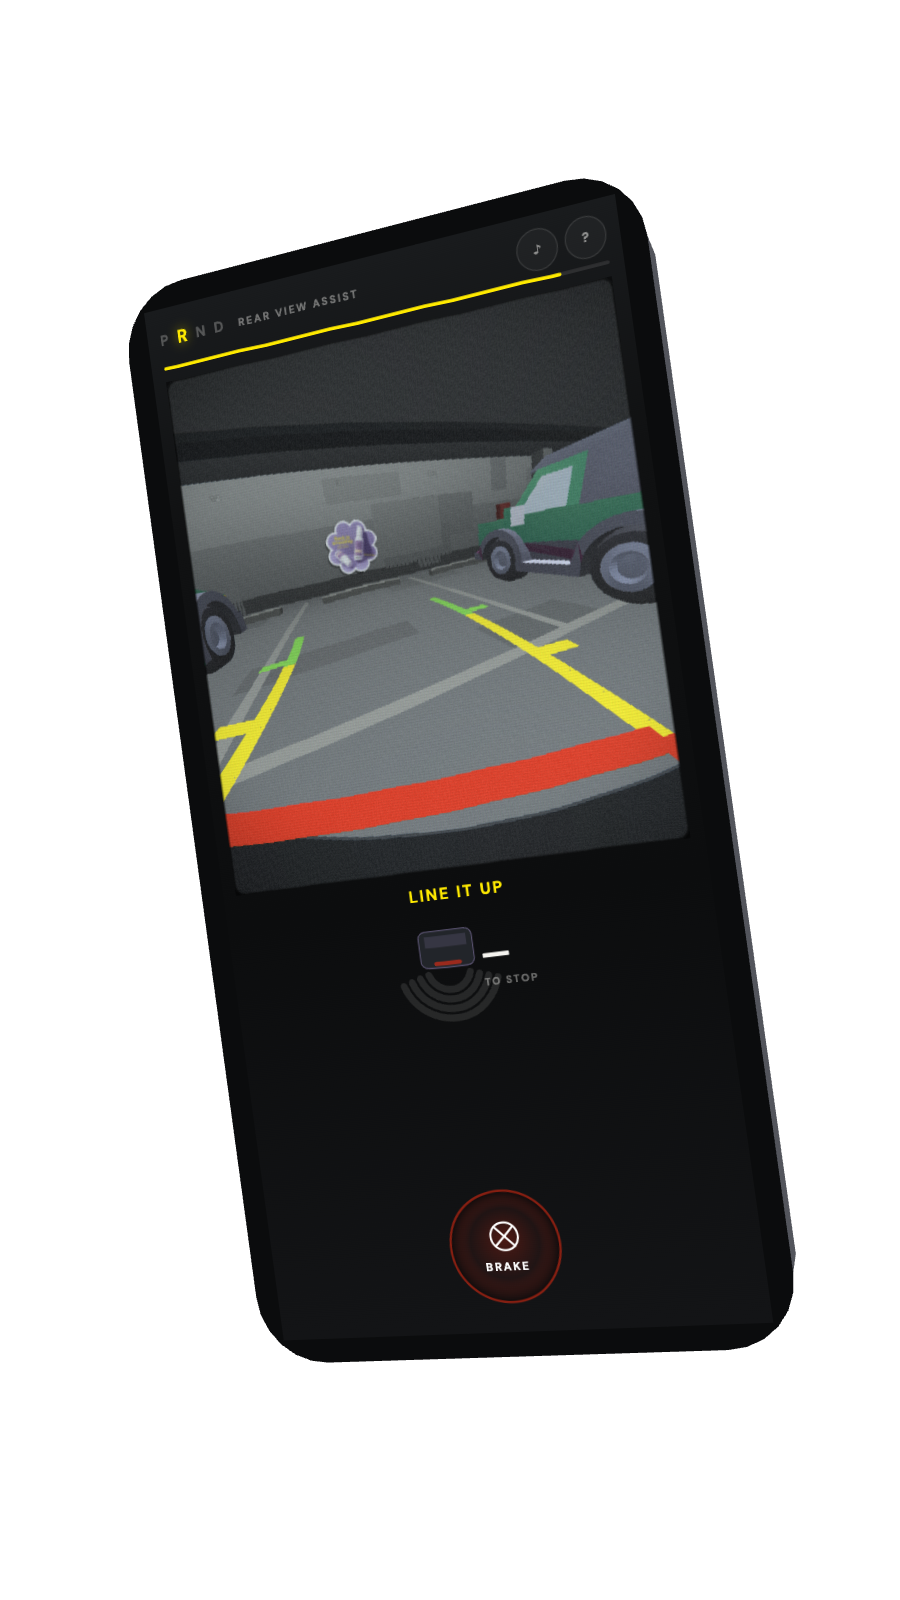
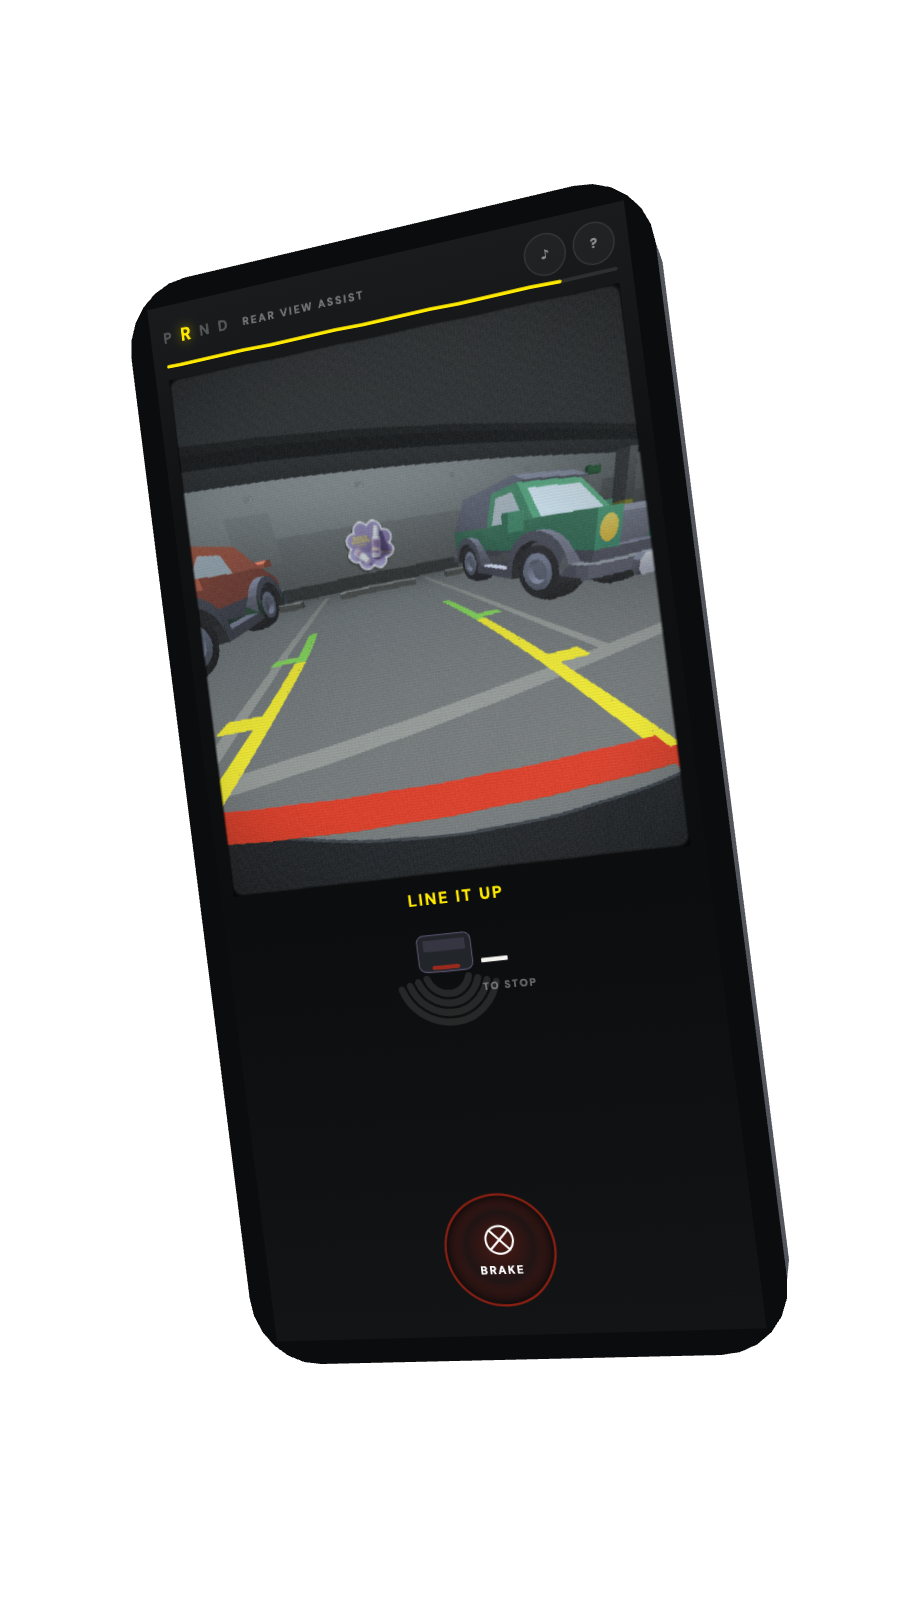
Park the neighbours where the simulation thinks they are
A pose is the rear axle everywhere in the simulation, but a baked model is
centred on its own bounding box, and the renderer was putting the centre at the
axle. Every parked car therefore sat about a metre out of place — over the wheel
stop and into the wall one way round, out into the aisle the other, depending on
which way it was parked. The model is now shifted forward by the difference.

Bays are 4.9 m deep so the longest model in the kit fits without overhanging the
mouth. Verified across 1124 parked cars in 200 car parks: none mounts a stop,
none pokes into the aisle.

diff --git a/dist/embed.html b/dist/embed.html
@@ -895,12 +895,12 @@ window.PM_MODELS = {
     coupe: { len: 3.09, wid: 1.58 },
   };
   const GEO = {
-    bayW: 2.62, bayD: 4.60,
+    bayW: 2.62, bayD: 4.90,
     wallZ: 0,            // poster wall
     kerbZ: 0.22,         // wheel stop
     stopZ: 1.02,         // the wheel stop, and where a parked car comes to rest
-    laneZ0: 4.60,        // bay mouth
-    laneZ1: 11.0,        // far side of the lane
+    laneZ0: 4.90,        // bay mouth, deep enough for the longest model
+    laneZ1: 11.3,        // far side of the lane
     ceilY: 2.86,
     xMin: -13, xMax: 13,
     bayMin: -4, bayMax: 4,
@@ -3117,7 +3117,12 @@ window.PM_MODELS = {
       for (const car of L.cars) {
         const mdl = this.models[car.model] || this.models[this.modelNames[0]];
         if (!mdl) continue;
-        trs(mm, car.x, 0, car.z, car.heading, 1);   // the kit's nose is +z, same as ours
+        /* A pose is the rear axle everywhere in the simulation, but a baked
+           model is centred on its own bounding box. Shift it forward by the
+           difference or every parked car sits a metre out of its bay — over
+           the wheel stop one way round, into the aisle the other. */
+        const cf = (car.len || W.CAR.len) * 0.5 - W.CAR.rearOverhang;
+        trs(mm, car.x + Math.sin(car.heading) * cf, 0, car.z + Math.cos(car.heading) * cf, car.heading, 1);
         gl.uniformMatrix4fv(p.u.uM, false, mm);
         gl.uniform3f(p.u.uTint, car.paint.body[0] / 255, car.paint.body[1] / 255, car.paint.body[2] / 255);
         this.bindSolid(mdl);

diff --git a/index.html b/index.html
@@ -902,12 +902,12 @@ window.PM_MODELS = {
     coupe: { len: 3.09, wid: 1.58 },
   };
   const GEO = {
-    bayW: 2.62, bayD: 4.60,
+    bayW: 2.62, bayD: 4.90,
     wallZ: 0,            // poster wall
     kerbZ: 0.22,         // wheel stop
     stopZ: 1.02,         // the wheel stop, and where a parked car comes to rest
-    laneZ0: 4.60,        // bay mouth
-    laneZ1: 11.0,        // far side of the lane
+    laneZ0: 4.90,        // bay mouth, deep enough for the longest model
+    laneZ1: 11.3,        // far side of the lane
     ceilY: 2.86,
     xMin: -13, xMax: 13,
     bayMin: -4, bayMax: 4,
@@ -3124,7 +3124,12 @@ window.PM_MODELS = {
       for (const car of L.cars) {
         const mdl = this.models[car.model] || this.models[this.modelNames[0]];
         if (!mdl) continue;
-        trs(mm, car.x, 0, car.z, car.heading, 1);   // the kit's nose is +z, same as ours
+        /* A pose is the rear axle everywhere in the simulation, but a baked
+           model is centred on its own bounding box. Shift it forward by the
+           difference or every parked car sits a metre out of its bay — over
+           the wheel stop one way round, into the aisle the other. */
+        const cf = (car.len || W.CAR.len) * 0.5 - W.CAR.rearOverhang;
+        trs(mm, car.x + Math.sin(car.heading) * cf, 0, car.z + Math.cos(car.heading) * cf, car.heading, 1);
         gl.uniformMatrix4fv(p.u.uM, false, mm);
         gl.uniform3f(p.u.uTint, car.paint.body[0] / 255, car.paint.body[1] / 255, car.paint.body[2] / 255);
         this.bindSolid(mdl);

diff --git a/src/gl.js b/src/gl.js
@@ -471,7 +471,12 @@
       for (const car of L.cars) {
         const mdl = this.models[car.model] || this.models[this.modelNames[0]];
         if (!mdl) continue;
-        trs(mm, car.x, 0, car.z, car.heading, 1);   // the kit's nose is +z, same as ours
+        /* A pose is the rear axle everywhere in the simulation, but a baked
+           model is centred on its own bounding box. Shift it forward by the
+           difference or every parked car sits a metre out of its bay — over
+           the wheel stop one way round, into the aisle the other. */
+        const cf = (car.len || W.CAR.len) * 0.5 - W.CAR.rearOverhang;
+        trs(mm, car.x + Math.sin(car.heading) * cf, 0, car.z + Math.cos(car.heading) * cf, car.heading, 1);
         gl.uniformMatrix4fv(p.u.uM, false, mm);
         gl.uniform3f(p.u.uTint, car.paint.body[0] / 255, car.paint.body[1] / 255, car.paint.body[2] / 255);
         this.bindSolid(mdl);

diff --git a/src/world.js b/src/world.js
@@ -30,12 +30,12 @@
     coupe: { len: 3.09, wid: 1.58 },
   };
   const GEO = {
-    bayW: 2.62, bayD: 4.60,
+    bayW: 2.62, bayD: 4.90,
     wallZ: 0,            // poster wall
     kerbZ: 0.22,         // wheel stop
     stopZ: 1.02,         // the wheel stop, and where a parked car comes to rest
-    laneZ0: 4.60,        // bay mouth
-    laneZ1: 11.0,        // far side of the lane
+    laneZ0: 4.90,        // bay mouth, deep enough for the longest model
+    laneZ1: 11.3,        // far side of the lane
     ceilY: 2.86,
     xMin: -13, xMax: 13,
     bayMin: -4, bayMax: 4,
